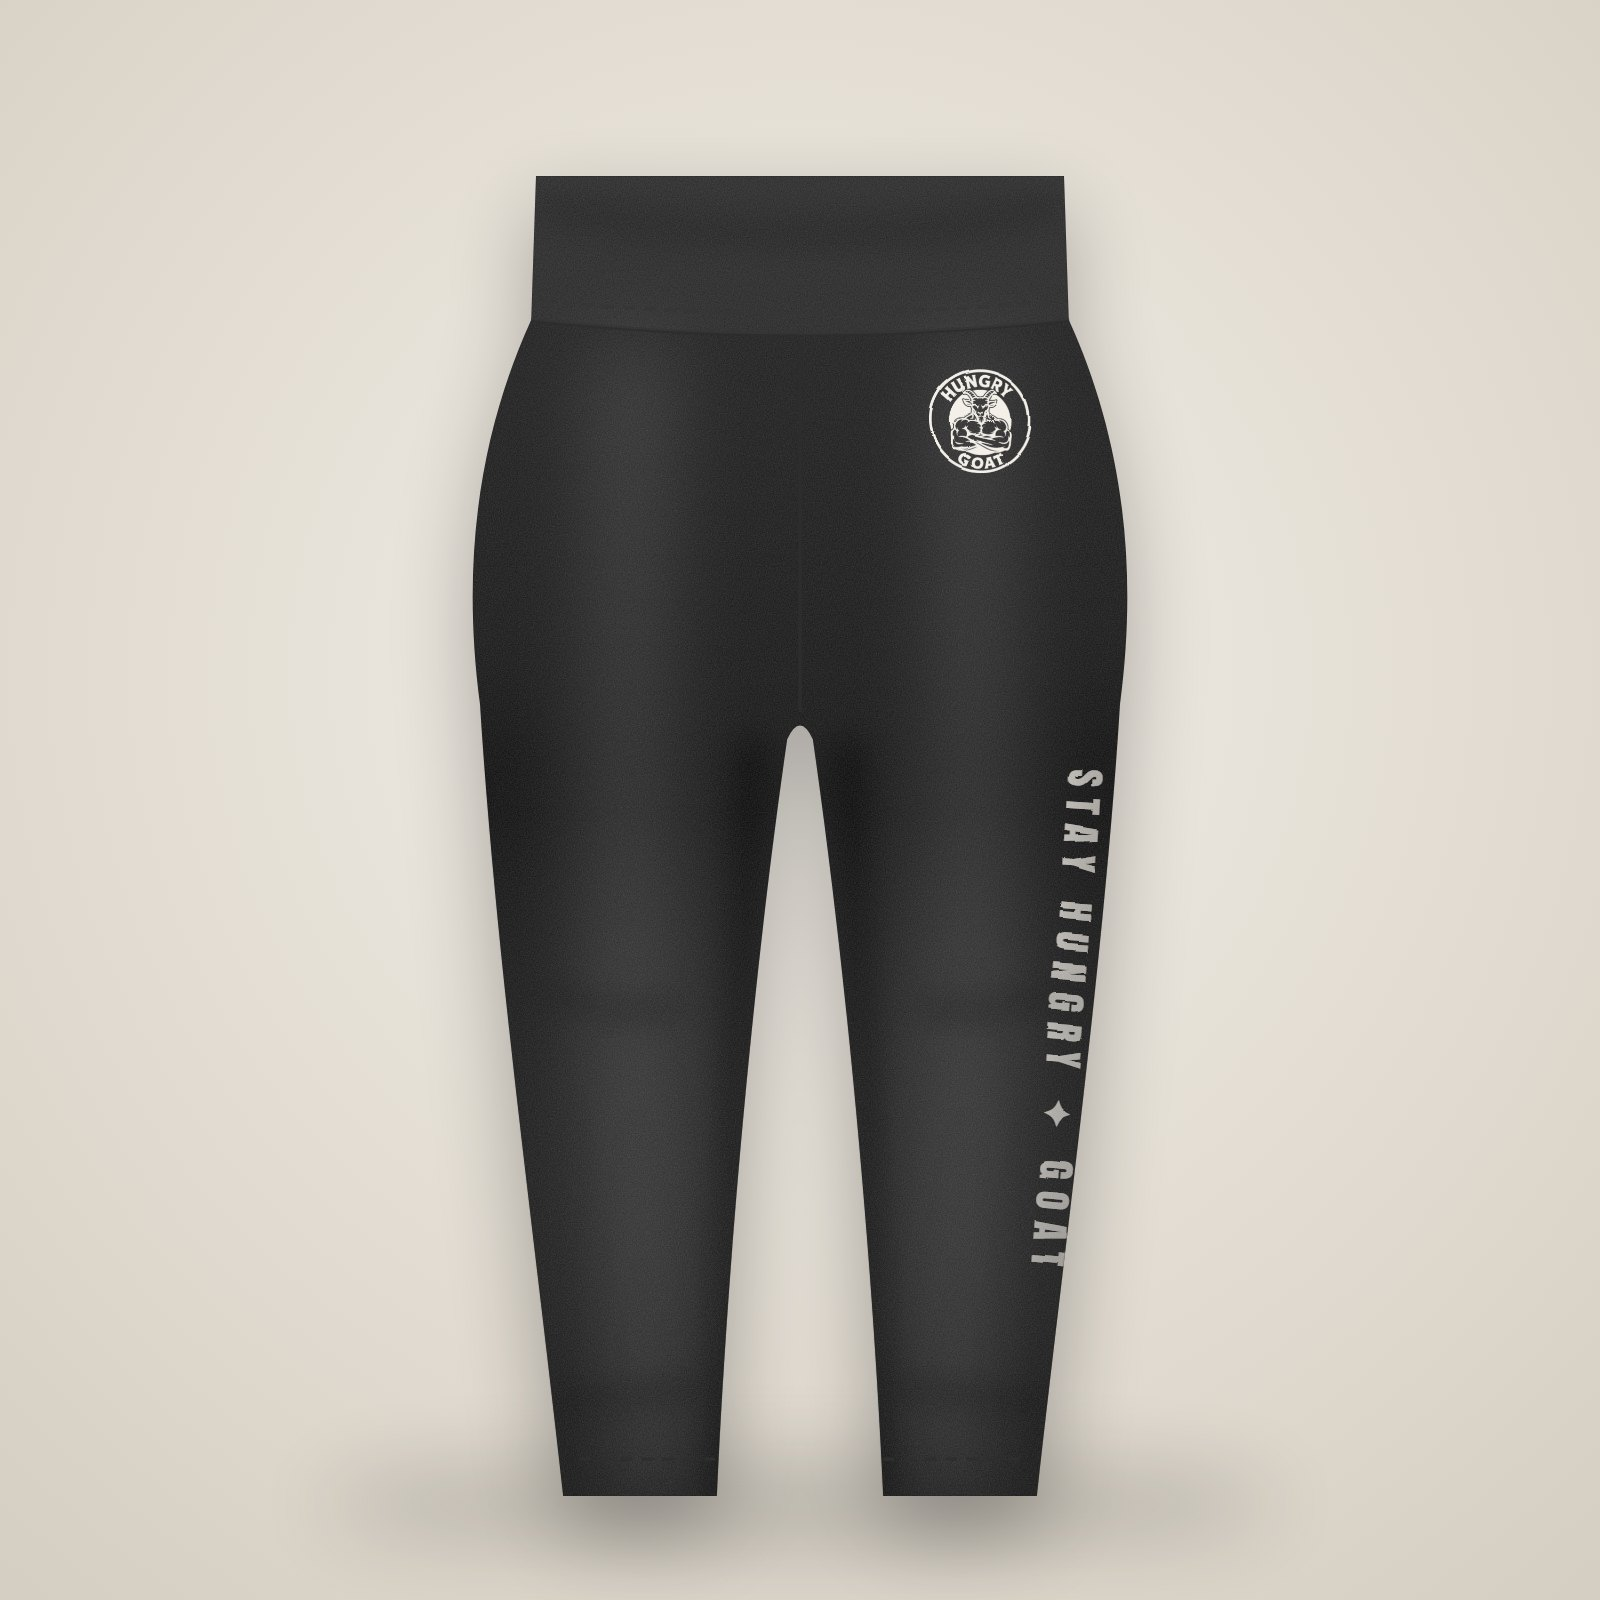
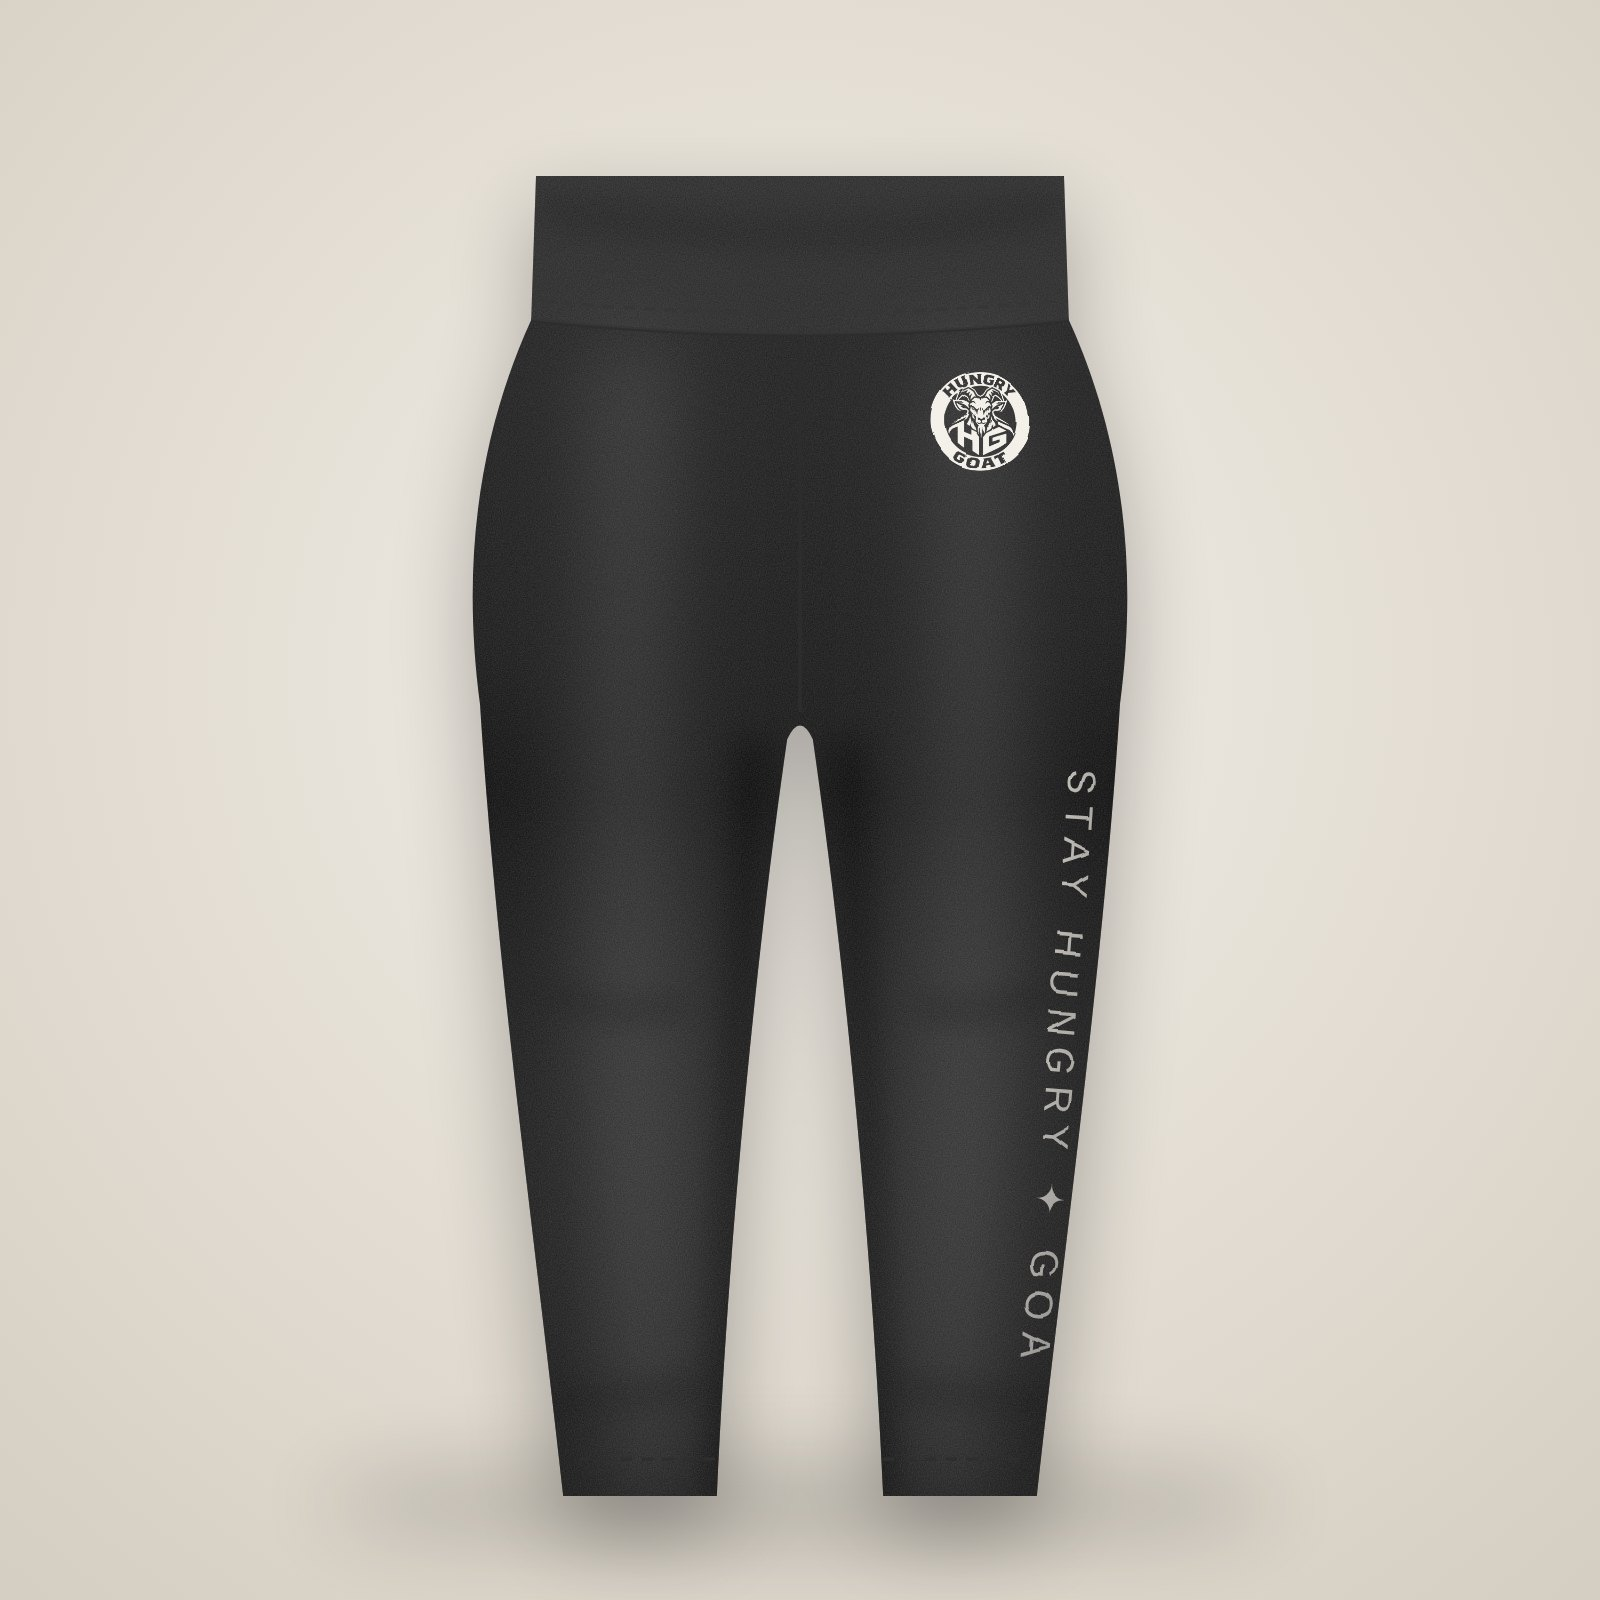
Nov glavni logotip (kozel z monogramom HG)
Claude-Session: https://claude.ai/code/session_01JyoaJhs59fUBwMmDLVJvFA

Changed region(s): [[0.625, 0.4688, 0.6875, 0.8438], [0.5625, 0.2188, 0.6562, 0.3125]]

diff --git a/shop.html b/shop.html
@@ -4,6 +4,7 @@
 <meta charset="UTF-8">
 <meta name="viewport" content="width=device-width, initial-scale=1">
 <title>Hungry Goat Clothing — Trgovina (mockup)</title>
+<link rel="icon" type="image/png" href="img/logo/logo-badge.png">
 <link rel="preconnect" href="https://fonts.googleapis.com">
 <link rel="preconnect" href="https://fonts.gstatic.com" crossorigin>
 <link href="https://fonts.googleapis.com/css2?family=Anton&family=Inter:wght@400;500;600;700;800&display=swap" rel="stylesheet">
@@ -20,7 +21,7 @@
   nav{border-bottom:1px solid var(--line);position:sticky;top:0;background:rgba(14,14,14,.9);backdrop-filter:blur(10px);z-index:10}
   nav .wrap{display:flex;align-items:center;justify-content:space-between;height:66px;gap:20px}
   .logo{display:flex;align-items:center;gap:10px;font-family:Anton,sans-serif;font-size:1.25rem;letter-spacing:1px}
-  .logo img{width:38px;height:38px;object-fit:cover;filter:invert(1) contrast(1.5);mix-blend-mode:screen;clip-path:circle(46.5% at 50% 50%)}
+  .logo img{width:40px;height:40px;display:block}
   .logo b{color:var(--orange);font-weight:400}
   .links{display:flex;gap:26px;font-size:.88rem;color:var(--muted);font-weight:500}
   .links a.on,.links a:hover{color:var(--bone)}
@@ -56,9 +57,7 @@
   .p-img{position:relative;aspect-ratio:4/5;overflow:hidden;display:grid;place-items:center;background:radial-gradient(circle at 50% 40%,#3d3a36,#262422)}
   .p-img.light{background:radial-gradient(circle at 50% 40%,#e9e4da,#d8d1c4)}
   .p-img svg{width:78%;height:78%}
-  .p-img .mark{position:absolute;width:15%;aspect-ratio:1;border-radius:50%;object-fit:cover}
-  .p-img .mark.onDark{filter:invert(1) contrast(1.5);mix-blend-mode:screen;clip-path:circle(46.5% at 50% 50%)}
-  .p-img .mark.onLight{mix-blend-mode:multiply;clip-path:circle(46.5% at 50% 50%)}
+  .p-img .mark{position:absolute;width:15%;aspect-ratio:1}
   .p-img img.photo{position:absolute;inset:0;width:100%;height:100%;object-fit:cover;transition:opacity .45s}
   .p-img img.back{opacity:0}
   .p:hover .p-img img.back{opacity:1}
@@ -83,7 +82,7 @@
   .bundle-img .row{display:flex;gap:10px;align-items:flex-end}
   .bi{position:relative;width:120px;height:120px}
   .bi svg{width:100%;height:100%}
-  .bundle-img .mark{position:absolute;aspect-ratio:1;border-radius:50%;object-fit:cover;filter:invert(1) contrast(1.5);mix-blend-mode:screen;clip-path:circle(46.5% at 50% 50%)}
+  .bundle-img .mark{position:absolute;aspect-ratio:1}
   .bundle-txt{padding:40px;display:flex;flex-direction:column;justify-content:center;gap:14px;background:var(--ink)}
   .bundle-txt h2{font-size:clamp(2rem,4vw,3rem)}
   .bundle-txt p{color:var(--muted);line-height:1.6}
@@ -125,7 +124,7 @@
 
 <nav>
   <div class="wrap">
-    <a href="index.html" class="logo"><img src="img/logo.jpg" alt=""><img src="img/brand/bm-line.svg" alt="HUNGRY GOAT" style="width:auto;height:30px;filter:none;mix-blend-mode:normal;clip-path:none"></a>
+    <a href="index.html" class="logo"><img src="img/logo/logo-badge.png" alt=""><img src="img/brand/bm-line.svg" alt="HUNGRY GOAT" style="width:auto;height:30px;filter:none;mix-blend-mode:normal;clip-path:none"></a>
     <div class="links">
       <a href="#" class="on">Drop 02</a><a href="#">Majice</a><a href="#">Ženske</a><a href="#">Dodatki</a><a href="#">Programi</a><a href="index.html">Treningi</a>
     </div>
@@ -238,7 +237,7 @@
   const BUNDLE=[{s:"tee",col:"#161616",m:[58,30]},{s:"shaker",col:"#1f1f1f",m:[50,58]},{s:"cap",col:"#161616",m:[50,40]}];
   const art=(p,size)=>p.img?(p.back?`<img class="photo" src="${IMG+p.back}.jpg" alt="${p.n} – hrbet" loading="lazy"><img class="photo back" src="${IMG+p.img}.jpg" alt="${p.n} – spredaj" loading="lazy"><span class="flip">Spredaj ↻</span>`:`<img class="photo" src="${IMG+p.img}.jpg" alt="${p.n}" loading="lazy">`):
     `<svg viewBox="0 0 200 200" fill="${p.col}" style="color:${p.col}">${SHAPES[p.s]}</svg>
-    <img class="mark ${p.light?'onLight':'onDark'}" src="img/logo.jpg" alt="" style="left:${p.m[0]}%;top:${p.m[1]}%;transform:translate(-50%,-50%);${size?'width:'+size:''}">`;
+    <img class="mark" src="img/logo/logo-${p.light?'black':'white'}.png" alt="" style="left:${p.m[0]}%;top:${p.m[1]}%;transform:translate(-50%,-50%);${size?'width:'+size:''}">`;
   const grid=document.getElementById("grid");
   function render(f){
     grid.innerHTML=P.map((p,i)=>(f==="all"||p.c===f)?`

diff --git a/index.html b/index.html
@@ -4,6 +4,7 @@
 <meta charset="UTF-8">
 <meta name="viewport" content="width=device-width, initial-scale=1">
 <title>Hungry Goat — Osebni trener Maribor</title>
+<link rel="icon" type="image/png" href="img/logo/logo-badge.png">
 <meta name="description" content="Hungry Goat — online coaching, osebni treningi 1 na 1 in skupinske vadbe v TNT Gym Maribor. Za ljudi 25–50, ki hočejo rezultate.">
 <link rel="preconnect" href="https://fonts.googleapis.com">
 <link rel="preconnect" href="https://fonts.gstatic.com" crossorigin>
@@ -46,11 +47,11 @@
   nav{position:fixed;inset:0 0 auto 0;z-index:50;background:rgba(14,14,14,.82);backdrop-filter:blur(12px);border-bottom:1px solid var(--line)}
   nav .wrap{display:flex;align-items:center;justify-content:space-between;height:68px;gap:16px}
   .logo{display:flex;align-items:center;gap:10px;font-family:Anton,sans-serif;font-size:1.35rem;letter-spacing:1px}
-  .logo-img{width:40px;height:40px;object-fit:cover;filter:invert(1) contrast(1.5);mix-blend-mode:screen;clip-path:circle(46.5% at 50% 50%)}
+  .logo-img{width:42px;height:42px;display:block}
   .hero-grid{display:grid;grid-template-columns:1.15fr .85fr;gap:50px;align-items:center}
   .hero-photo{position:relative;justify-self:end;width:100%;max-width:460px}
   .hero-img{width:100%;aspect-ratio:4/5;object-fit:cover;object-position:60% 40%;border-radius:var(--radius);border:1px solid var(--line);box-shadow:0 30px 80px rgba(255,90,31,.18)}
-  .hero-logo{position:absolute;left:-44px;bottom:-34px;width:150px;height:150px;border-radius:50%;background:var(--bone);border:5px solid var(--black);object-fit:cover}
+  .hero-logo{position:absolute;left:-44px;bottom:-34px;width:150px;height:150px;border-radius:50%;background:var(--black);box-shadow:0 12px 40px rgba(0,0,0,.55)}
   @media (max-width:900px){
     .hero-grid{grid-template-columns:1fr}
     .hero-photo{justify-self:start;max-width:none;order:-1}
@@ -237,7 +238,7 @@
 <nav>
   <div class="wrap">
     <a href="#top" class="logo" aria-label="Hungry Goat">
-      <img src="img/logo.jpg" alt="" class="logo-img">
+      <img src="img/logo/logo-badge.png" alt="" class="logo-img">
       <img src="img/brand/bm-line.svg" alt="HUNGRY GOAT" class="logo-word">
     </a>
     <div class="nav-links">
@@ -282,7 +283,7 @@
    </div>
     <div class="hero-photo">
       <img src="img/hero.jpg" alt="Hungry Goat trener v fitnesu" class="hero-img">
-      <img src="img/logo.jpg" alt="Hungry Goat logo" class="hero-logo">
+      <img src="img/logo/logo-badge.png" alt="Hungry Goat logo" class="hero-logo">
     </div>
   </div>
 </header>
